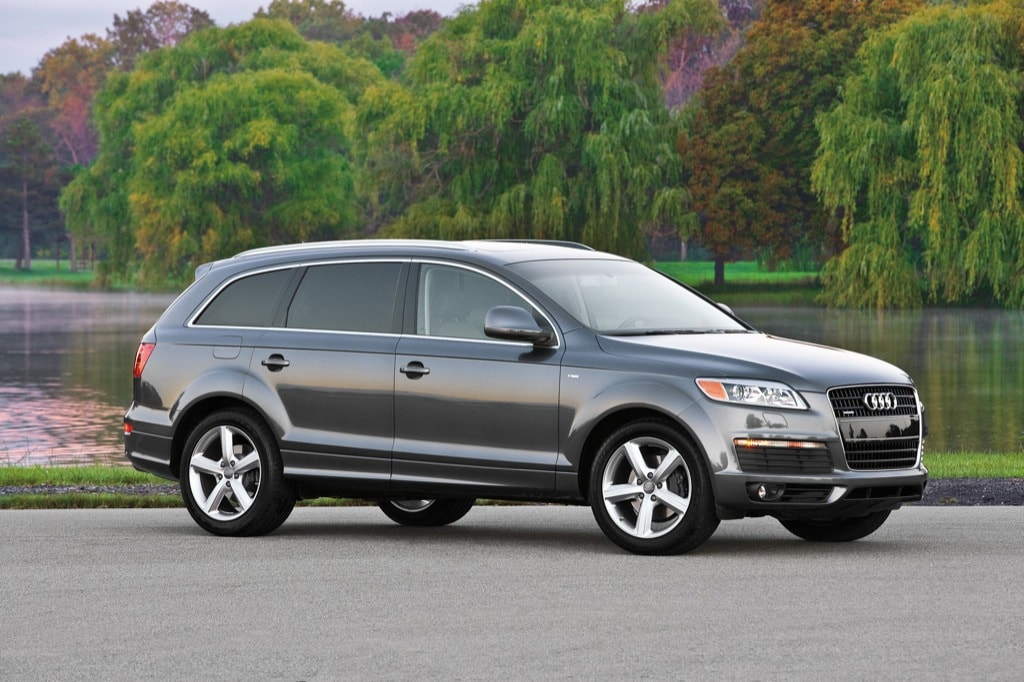
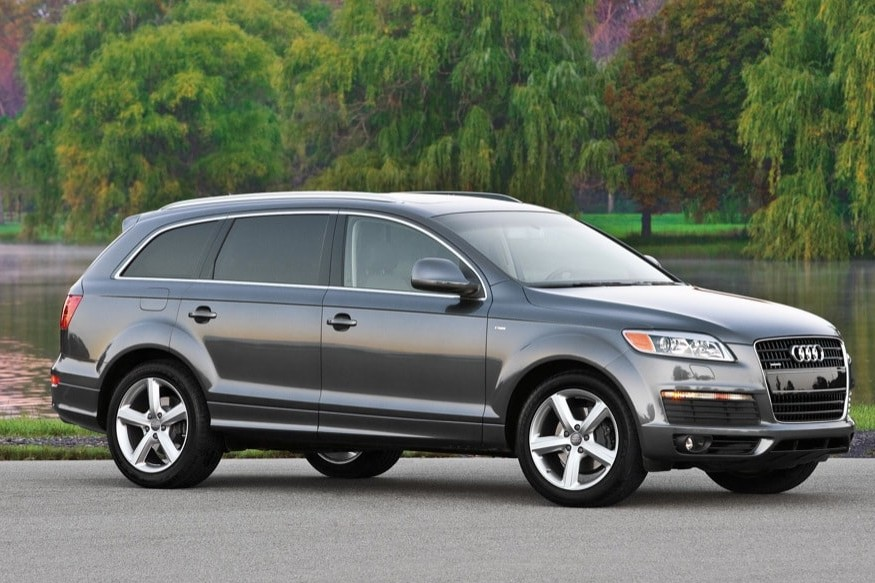
1.1
Atdalītas automašīnu kategorijas, pievienotas vēl dažas automašīnas datubāzē.

diff --git a/templates/srots.html b/templates/srots.html
@@ -1,0 +1,7 @@
+{% extends "base.html" %}
+{% block title %}Šrots{% endblock %}
+{% block content %}
+
+
+
+{% endblock %}

diff --git a/templates/sludinajumi.html b/templates/sludinajumi.html
@@ -1,5 +1,5 @@
 {% extends "base.html" %}
-{% block title %}Sākums{% endblock %}
+{% block title %}Sludinājumi{% endblock %}
 {% block content %}
 
 <div class="sludinajumi">
@@ -8,7 +8,7 @@
             <div class="sludinajums">
                 
                 <div class="image-container">
-                    <img class="bilde" src="{{ url_for('static', filename='images/' ~ sludinajums['image']) }}">
+                    <img class="bilde" src="{{ url_for('static', filename='images/' ~ sludinajums['image']) }}.jpg">
                     <div class="year">{{ sludinajums["year"] }}</div>
                 </div>
 

diff --git a/templates/base.html b/templates/base.html
@@ -15,7 +15,8 @@
         <div class="header">
             <a href="/"><div class="button">Sākums</div></a>
             <a href="/sludinajumi"><div class="button">Sludinājumi</div></a>
-            <a href=""><div class="button">Atsauksmes</div></a>
+            <a href=""><div class="button">Luxus Auto</div></a>
+            <a href="/srots"><div class="button">Šrots</div></a>
             <a href=""><div class="button">Par mums</div></a>
         </div>
 

diff --git a/app.py b/app.py
@@ -18,7 +18,7 @@ def sakums():
 @app.route("/sludinajumi")
 def sludinajumi():
     conn = get_db_connection()
-    sludinajumi = conn.execute("SELECT * FROM sludinajumi").fetchall()
+    sludinajumi = conn.execute("SELECT * FROM sludinajumi WHERE quality = 2").fetchall()
     conn.close()
     return render_template("sludinajumi.html", sludinajumi=sludinajumi)
 